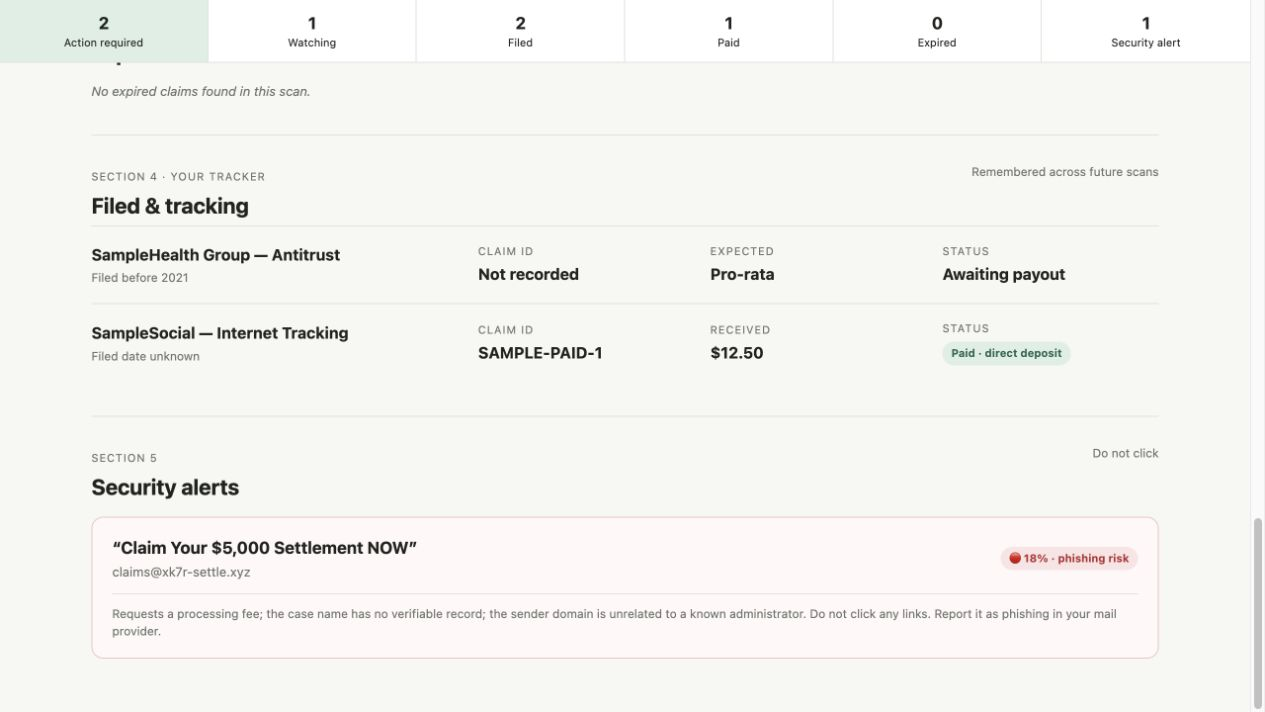
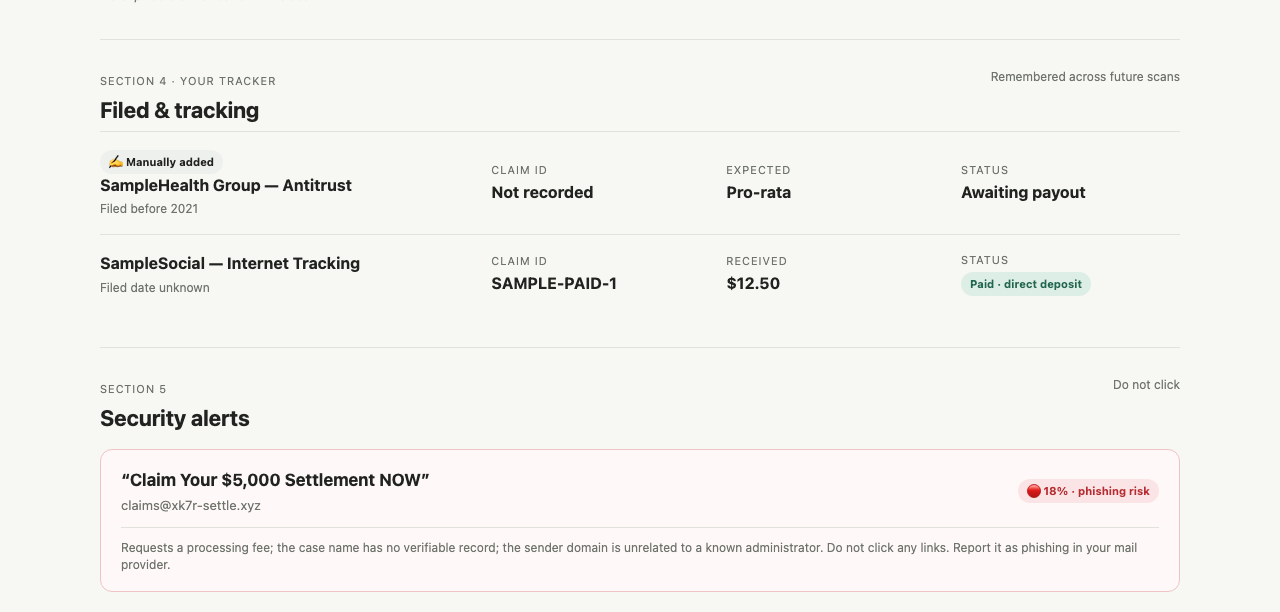
Refresh the demo report and replace both README screenshots
Inline the corrected mark and drop the `overflow: visible` escape hatch
that existed only to reveal the broken handle's stray tip.

Scale the sample payouts down to credible tiers ($25–$175 and up to $560,
totalling $25–$735, from $25–$10,000 and up to $20,000). The old figures
were real documented-loss ceilings, but almost nobody reaches them, and
"2 claims could be worth up to $30,000" reads as bait in a screenshot —
which is how it travels, detached from the "illustrative data" caption.

Both screenshots were stale and near-duplicates of each other: they
showed Sections 4-5 twice and never showed the hero, and
screenshot-phishing-action.png still pictured the six-item status strip
(Watching / Filed / Paid / Expired) that was removed in 04fa959 and is
now explicitly guarded against. Regenerate them: the report shot covers
hero, funnel, status strip and action queue; the phishing shot covers
filed tracking and security alerts, matching its alt text.

diff --git a/docs/demo-report.html b/docs/demo-report.html
@@ -64,7 +64,6 @@
     display: block;
     width: 38px;
     height: 38px;
-    overflow: visible;
   }
   .brand-name span { color: var(--accent); }
   .demo-label,
@@ -383,7 +382,8 @@
           <path fill="none" stroke="#F8F7F2" stroke-width="10" d="m30 216 73-57M226 216l-54-42" stroke-linecap="round" opacity=".9"/>
           <circle cx="173" cy="164" r="50" fill="#F8F7F2" stroke="#22664F" stroke-width="14"/>
           <path fill="none" stroke="#7A3EC8" stroke-width="17" d="m145 162 18 18 37-42" stroke-linecap="round" stroke-linejoin="round"/>
-          <path fill="none" stroke="#22664F" stroke-width="18" d="m209 201 30 30" stroke-linecap="round"/>
+          <path fill="none" stroke="#22664F" stroke-width="26" d="m209 201 34 34" stroke-linecap="round"/>
+          <path fill="none" stroke="#F8F7F2" stroke-width="14" d="m209 201 34 34" stroke-linecap="round"/>
         </svg>
         <span class="brand-name">Class Action <span>Finder</span></span>
       </div>
@@ -392,21 +392,21 @@
     <div class="hero-main">
       <div class="hero-copy">
         <span class="eyebrow">Your inbox found money</span>
-        <h1>2 claims could be worth up to $30,000.</h1>
+        <h1>2 claims could be worth up to $735.</h1>
         <p>Start with ExampleApp. Its verified claim window closes in 2 days.</p>
       </div>
       <div class="value-ledger">
         <span class="field-label">Actionable potential value</span>
-        <strong>$25–$30,000</strong>
+        <strong>$25–$735</strong>
         <div class="value-line">
           <span>ExampleApp</span>
-          <div class="track"><div class="fill" style="width:50%"></div></div>
-          <span>$25–$10K</span>
+          <div class="track"><div class="fill" style="width:31%"></div></div>
+          <span>$25–$175</span>
         </div>
         <div class="value-line">
           <span>SampleCorp</span>
           <div class="track"><div class="fill" style="width:100%"></div></div>
-          <span>$0–$20K</span>
+          <span>$0–$560</span>
         </div>
       </div>
     </div>
@@ -440,14 +440,14 @@
       <span class="step">1</span>
       <div><span class="action-verb">Submit claim</span><h3>ExampleApp</h3><p>Claim website and settlement administrator verified.</p></div>
       <div class="action-data"><span class="field-label">Deadline</span><strong class="urgent">Jul 2, 2026</strong><p>2 days left</p></div>
-      <div class="action-data"><span class="field-label">Value</span><strong>$25–$10,000</strong><p>92% confidence</p></div>
+      <div class="action-data"><span class="field-label">Value</span><strong>$25–$175</strong><p>92% confidence</p></div>
       <span class="button">Open claim form</span>
     </article>
     <article class="action-row">
       <span class="step">2</span>
       <div><span class="action-verb">Check details, then submit</span><h3>SampleCorp</h3><p>Confirm documented-loss eligibility before completing the form.</p></div>
       <div class="action-data"><span class="field-label">Deadline</span><strong>Sep 14, 2026</strong><p>76 days left</p></div>
-      <div class="action-data"><span class="field-label">Value</span><strong>Up to $20,000</strong><p>96% confidence</p></div>
+      <div class="action-data"><span class="field-label">Value</span><strong>Up to $560</strong><p>96% confidence</p></div>
       <span class="button secondary">Open claim details</span>
     </article>
     <div class="reminder">After submitting, tell the assistant “I already filed the ExampleApp one.” It will move out of this queue and into Filed &amp; tracking.</div>
@@ -500,7 +500,7 @@
         </div>
         <div class="fields">
           <div><span class="field-label">Deadline</span><div class="field-value urgent">Jul 2, 2026 · 2 days</div></div>
-          <div><span class="field-label">Your payout</span><div class="field-value">$25–$10,000</div></div>
+          <div><span class="field-label">Your payout</span><div class="field-value">$25–$175</div></div>
           <div><span class="field-label">Total pool</span><div class="field-value">$24.45M</div></div>
         </div>
         <div class="ids"><code>ID: SAMPLE-ID-0001</code><code>PIN: 0000</code></div>
@@ -513,8 +513,8 @@
         </div>
         <div class="fields">
           <div><span class="field-label">Deadline</span><div class="field-value">Sep 14, 2026</div></div>
-          <div><span class="field-label">Your payout</span><div class="field-value">Up to $20,000</div></div>
-          <div><span class="field-label">Total pool</span><div class="field-value">$425M</div></div>
+          <div><span class="field-label">Your payout</span><div class="field-value">Up to $560</div></div>
+          <div><span class="field-label">Total pool</span><div class="field-value">$18.9M</div></div>
         </div>
         <div class="ids"><code>ID: SAMPLE-ID-0002</code></div>
         <div class="notes">Documented losses and time spent may affect the payout. Illustrative claim link disabled.</div>
